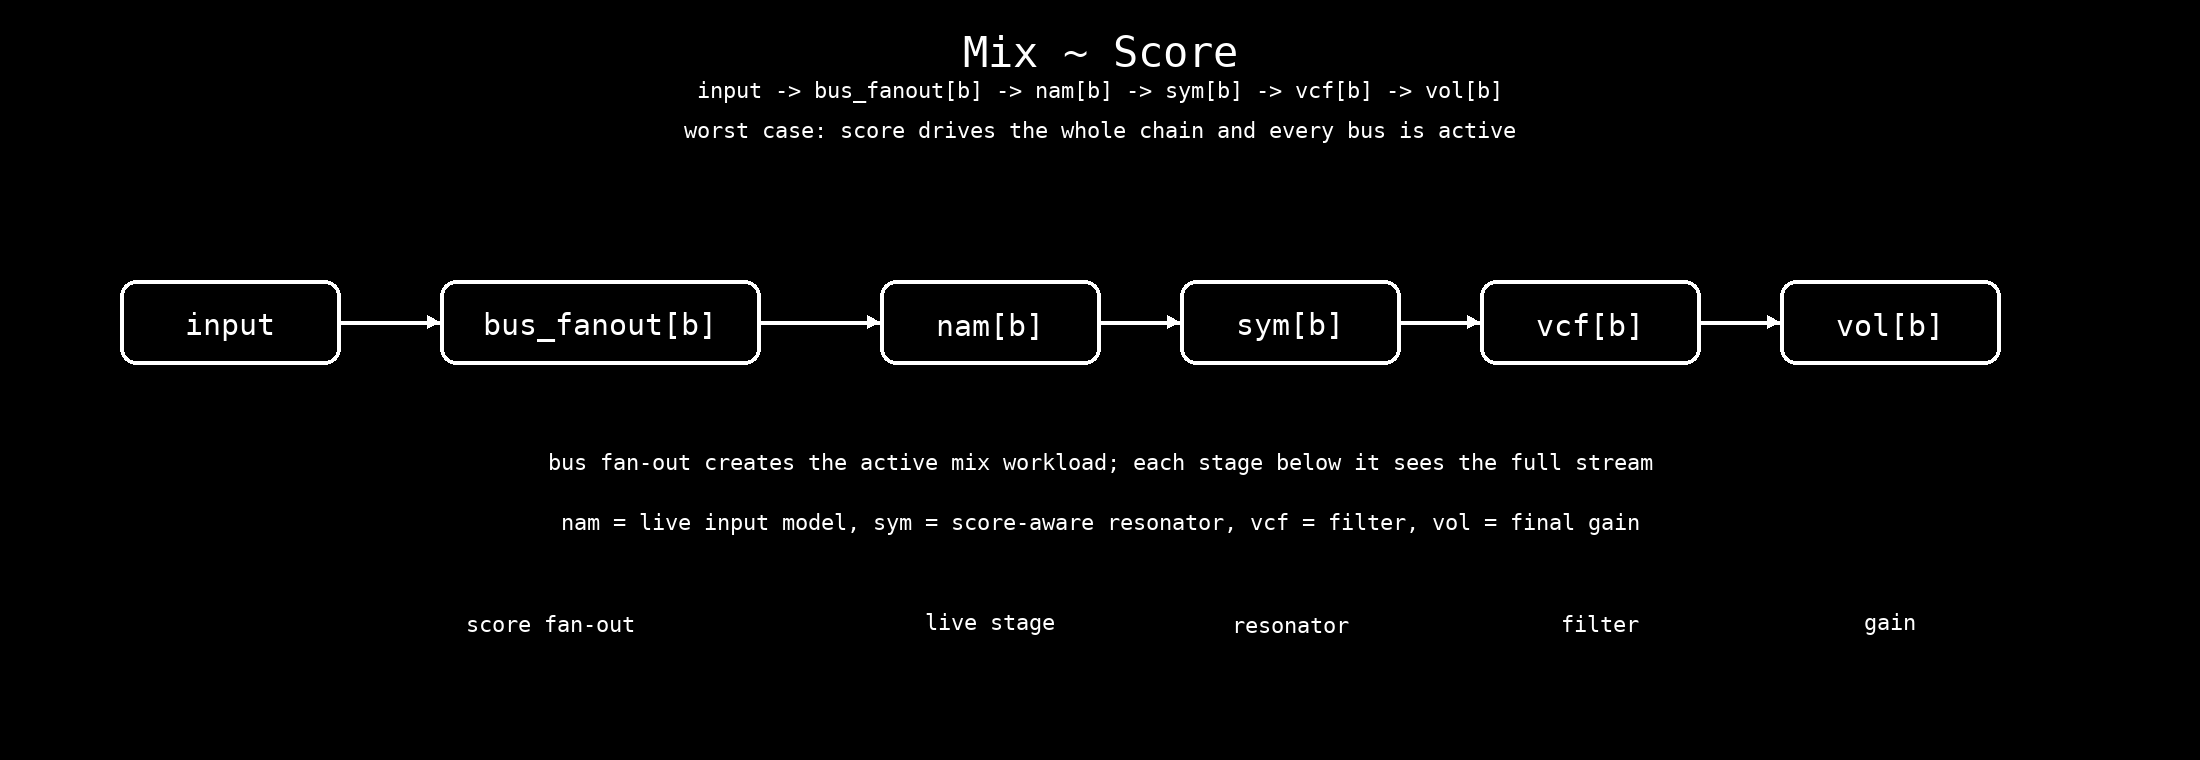
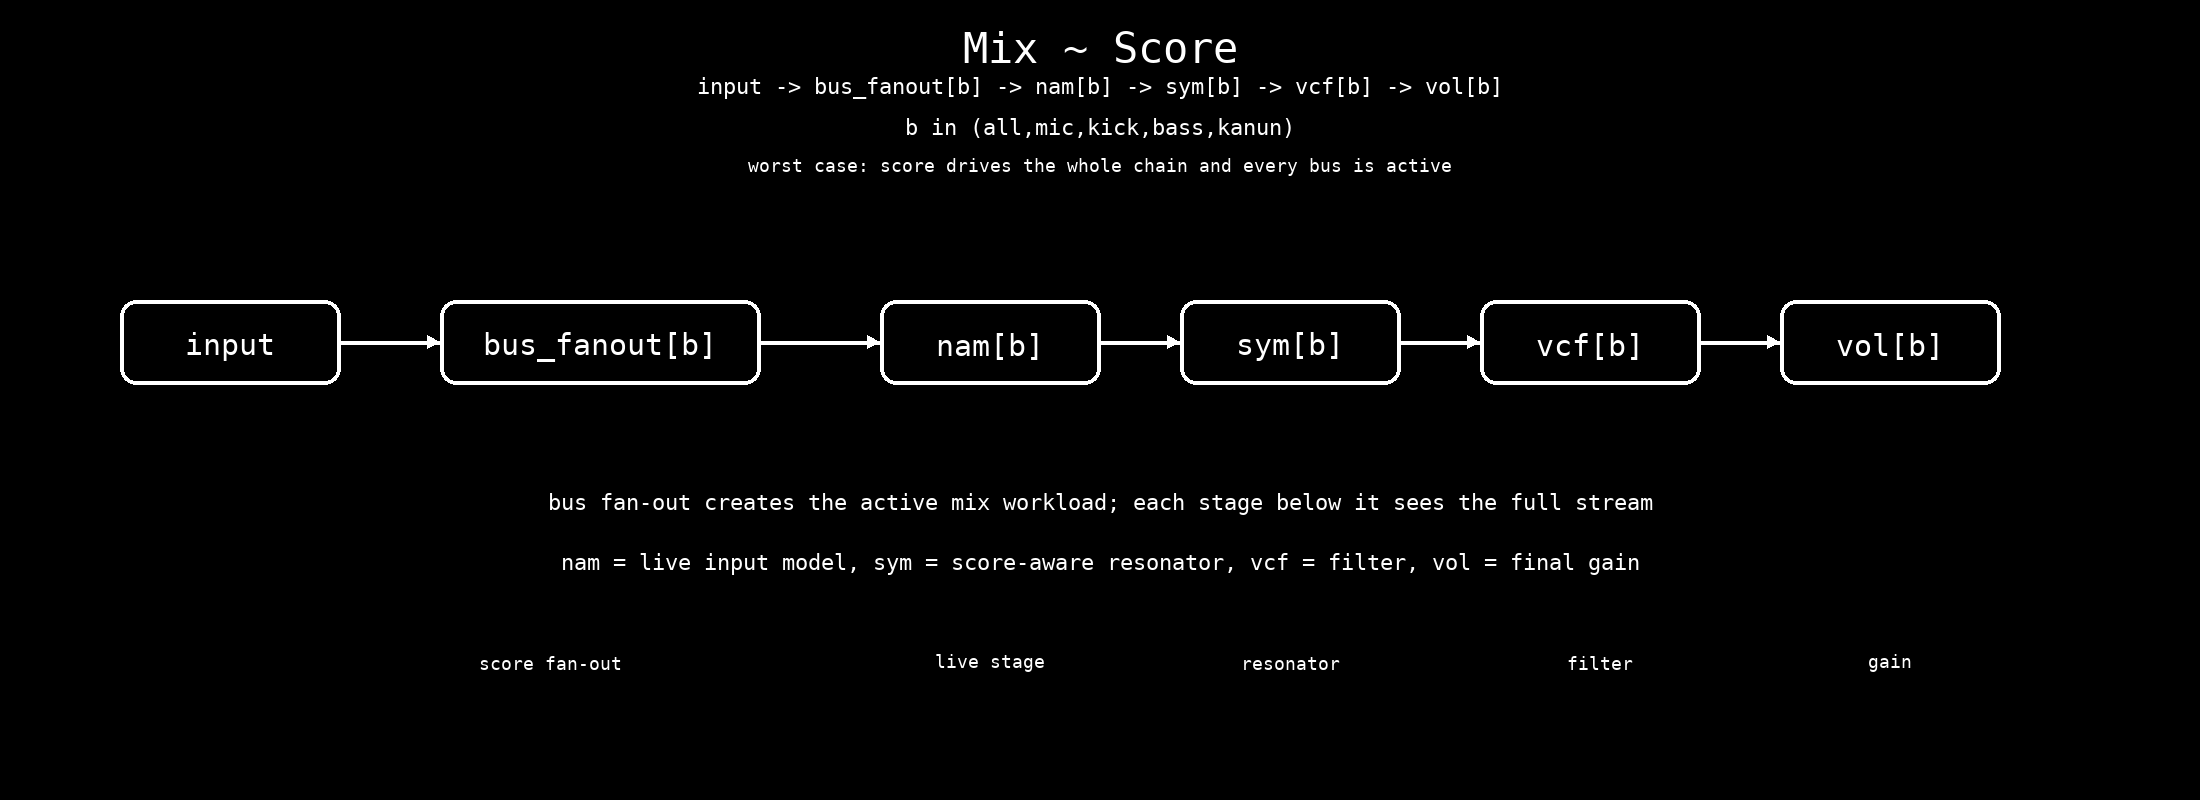
clarify bus fanout set

diff --git a/docs/buses-effects-order.md b/docs/buses-effects-order.md
@@ -20,6 +20,8 @@ The important split is this:
 input -> bus_fanout[b] -> nam[b] -> sym[b] -> vcf[b] -> vol[b]
 ```
 
+Here `b` ranges over `all`, `mic`, `kick`, `bass`, and `kanun`.
+
 That is the worst-case work path when the score is driving all active buses at
 once.
 
